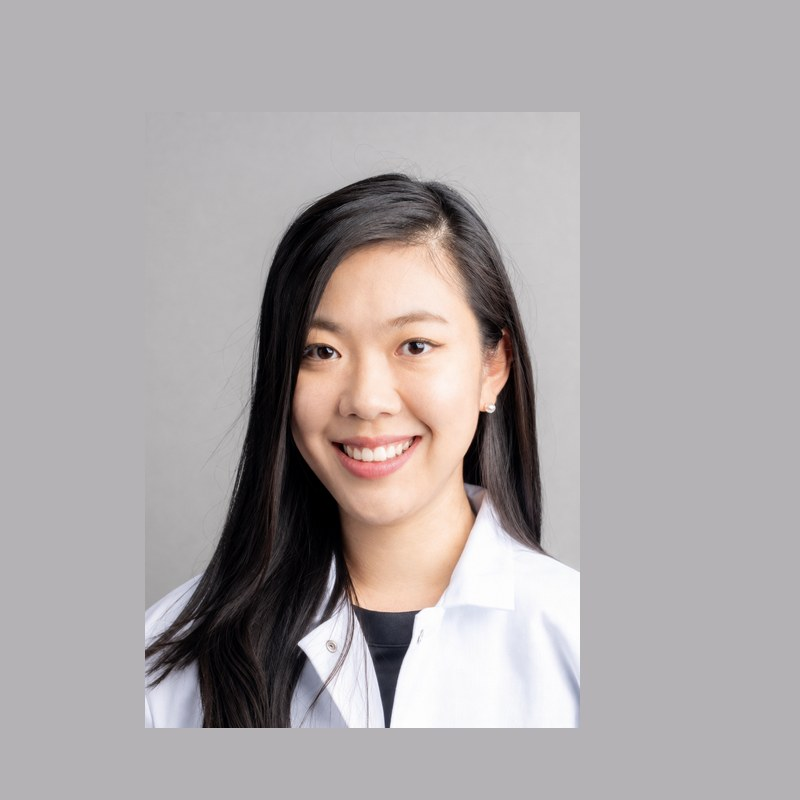
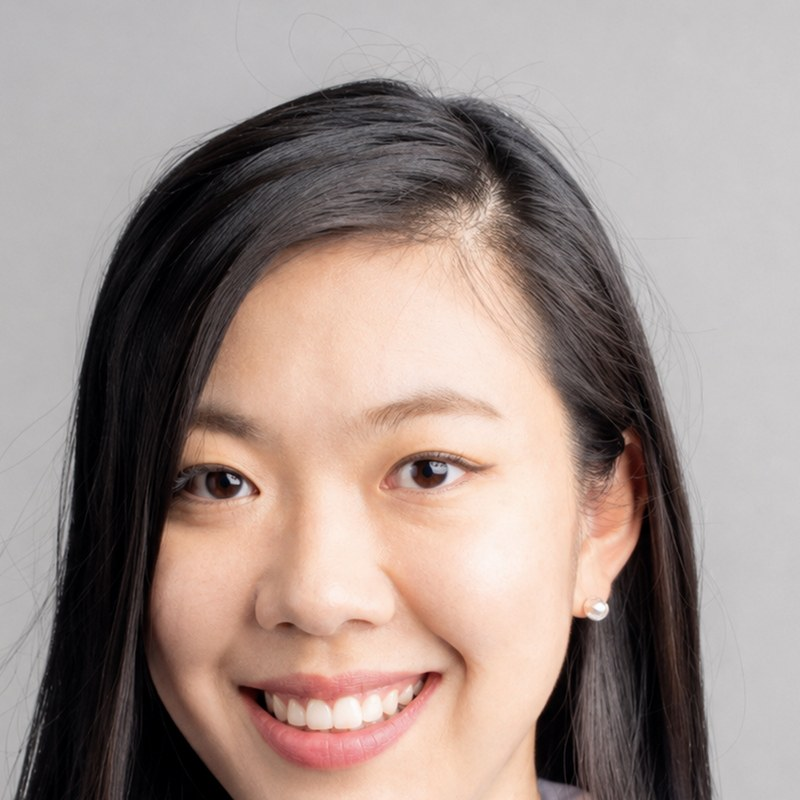
Recrop profile photo (natural, face-centered) and update CV intro

diff --git a/cv.ko.html b/cv.ko.html
@@ -26,7 +26,7 @@
 
 <main>
 <h1>CV</h1>
-<p>저는 현재 울산과학기술원(UNIST) 바이오메디컬공학과 박사과정으로, 신경염증 치료를 위한 소분자 기반 나노의약품 및 CNS 약물전달을 연구하고 있습니다. 약물전달 실험과 all-atom MD, Martini 3 coarse-grained simulation을 결합하여 GPCR 약물의 discovery부터 LNP의 구조, 약물 탑재, 막 상호작용까지 연구하고 있으며, 장기적으로는 simulation-guided CNS/BBB nanomedicine design framework를 구축하는 것을 목표로 합니다.</p>
+<p>저는 멀티스케일 분자 시뮬레이션과 중추신경계(CNS) 약물전달을 위한 나노의약품 연구를 수행하고 있는 박사과정 연구자입니다. 약물전달 실험과 전원자 분자동역학, Martini 3 조대화 시뮬레이션을 결합하여 GPCR 약물 발굴부터 LNP의 구조, 약물 탑재, 막 상호작용까지 연결해 연구하고 있습니다. 장기적으로는 CNS 및 혈액뇌장벽(BBB) 표적 나노의약품을 위한 시뮬레이션 기반 설계 전략을 구축하는 것을 목표로 합니다.</p>
 
 <h2>학력</h2>
 <div class="cv-entry">

diff --git a/cv.html b/cv.html
@@ -26,7 +26,7 @@
 
 <main>
 <h1>CV</h1>
-<p>I am a Ph.D. candidate in Biomedical Engineering at UNIST, focusing on small-molecule nanomedicine and CNS drug delivery for neuroinflammation. My research integrates drug delivery experiments, all-atom molecular dynamics, and Martini 3 coarse-grained simulations to study GPCR drug discovery, LNP structure, drug loading, and membrane interactions. My long-term goal is to develop a simulation-guided framework for CNS and BBB-targeted nanomedicine design.</p>
+<p>Ph.D. candidate specializing in multiscale molecular simulation and nanomedicine for CNS drug delivery and neuroinflammation. My research integrates drug delivery experiments, all-atom molecular dynamics, and Martini 3 coarse-grained simulations to connect GPCR drug discovery with LNP structure, drug loading, and membrane interactions. My long-term goal is to develop simulation-guided strategies for CNS and BBB-targeted nanomedicine design.</p>
 
 <h2>Education</h2>
 <div class="cv-entry">
